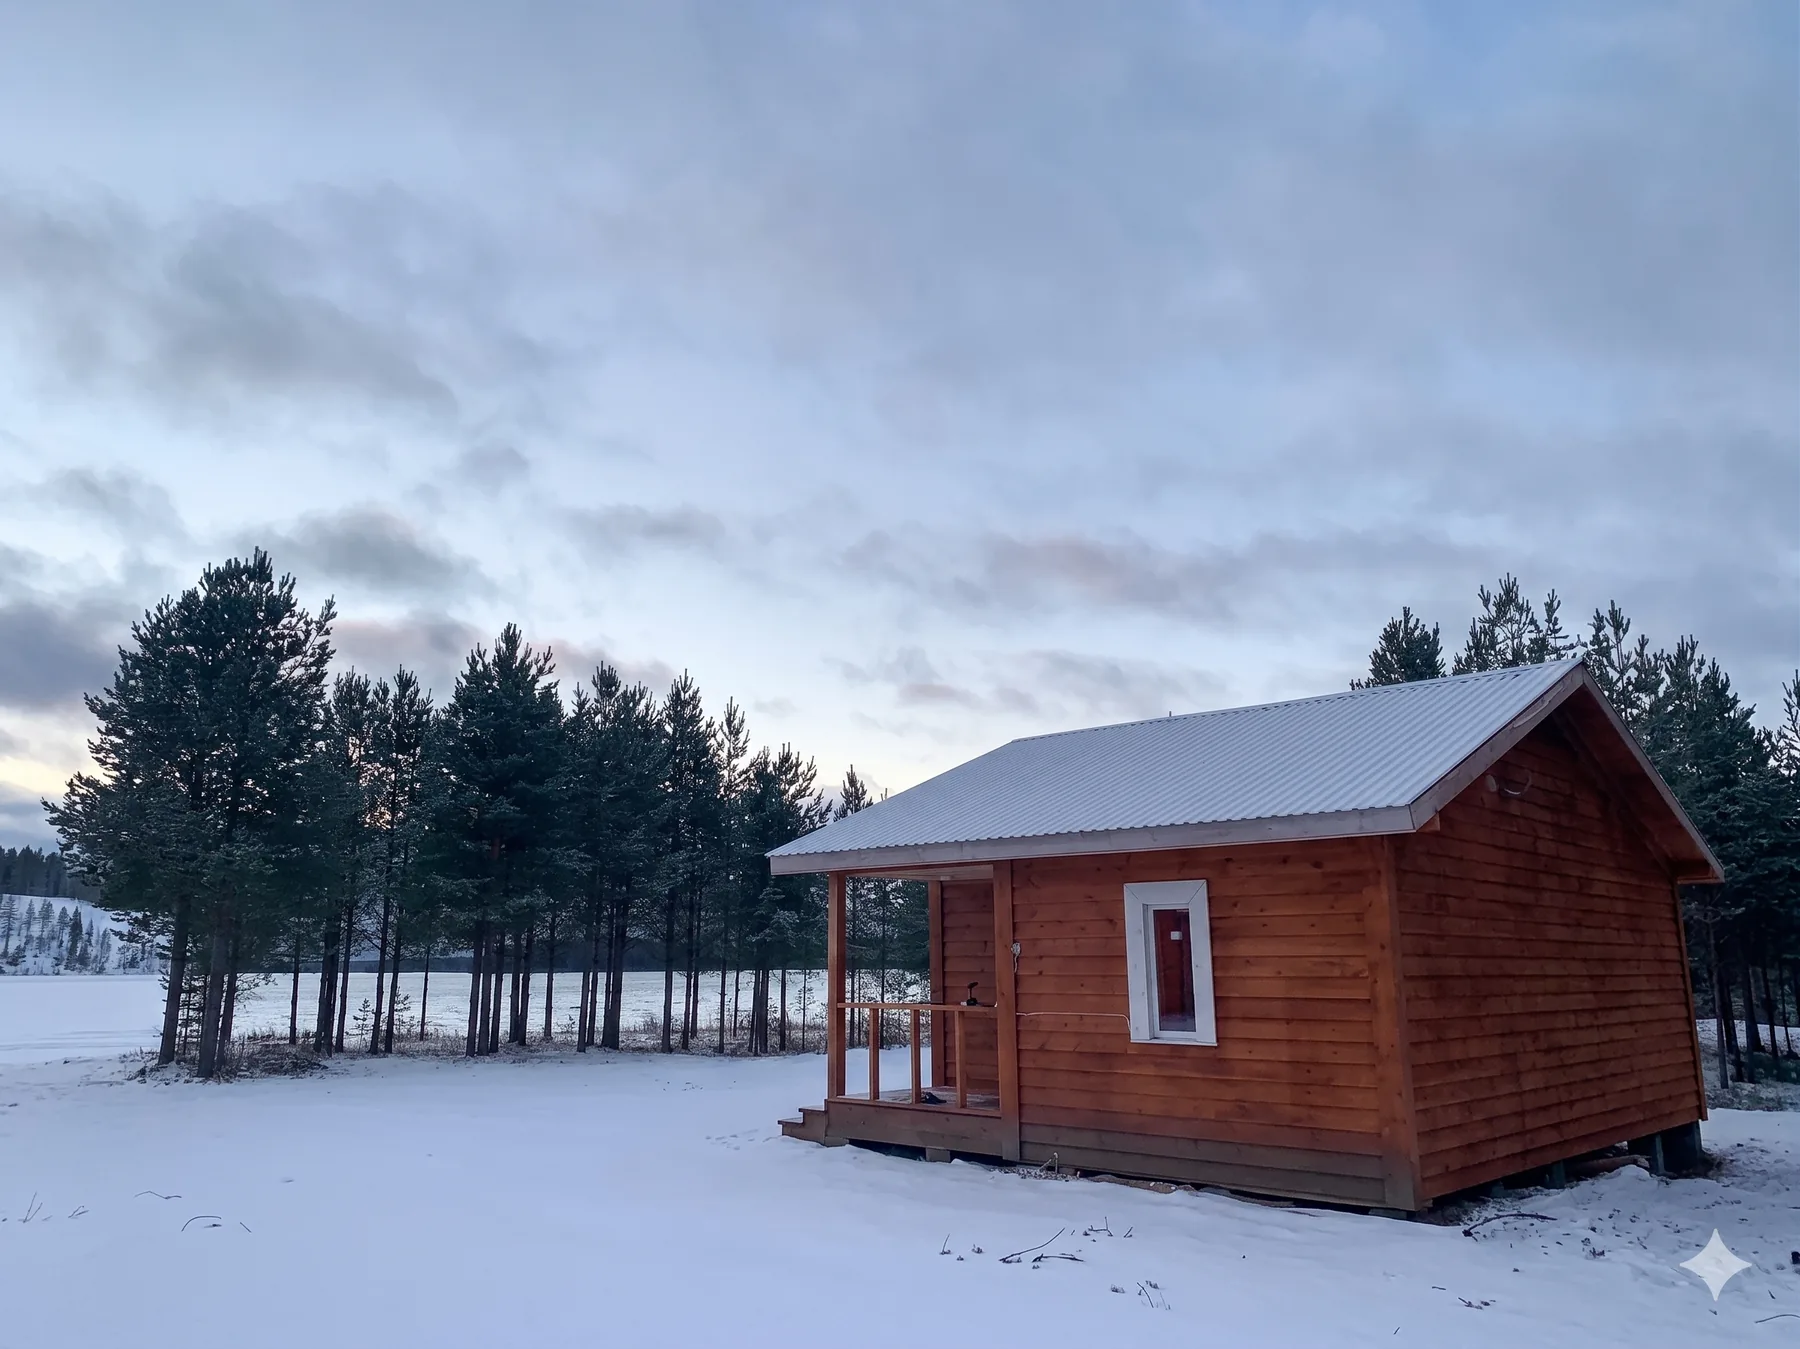
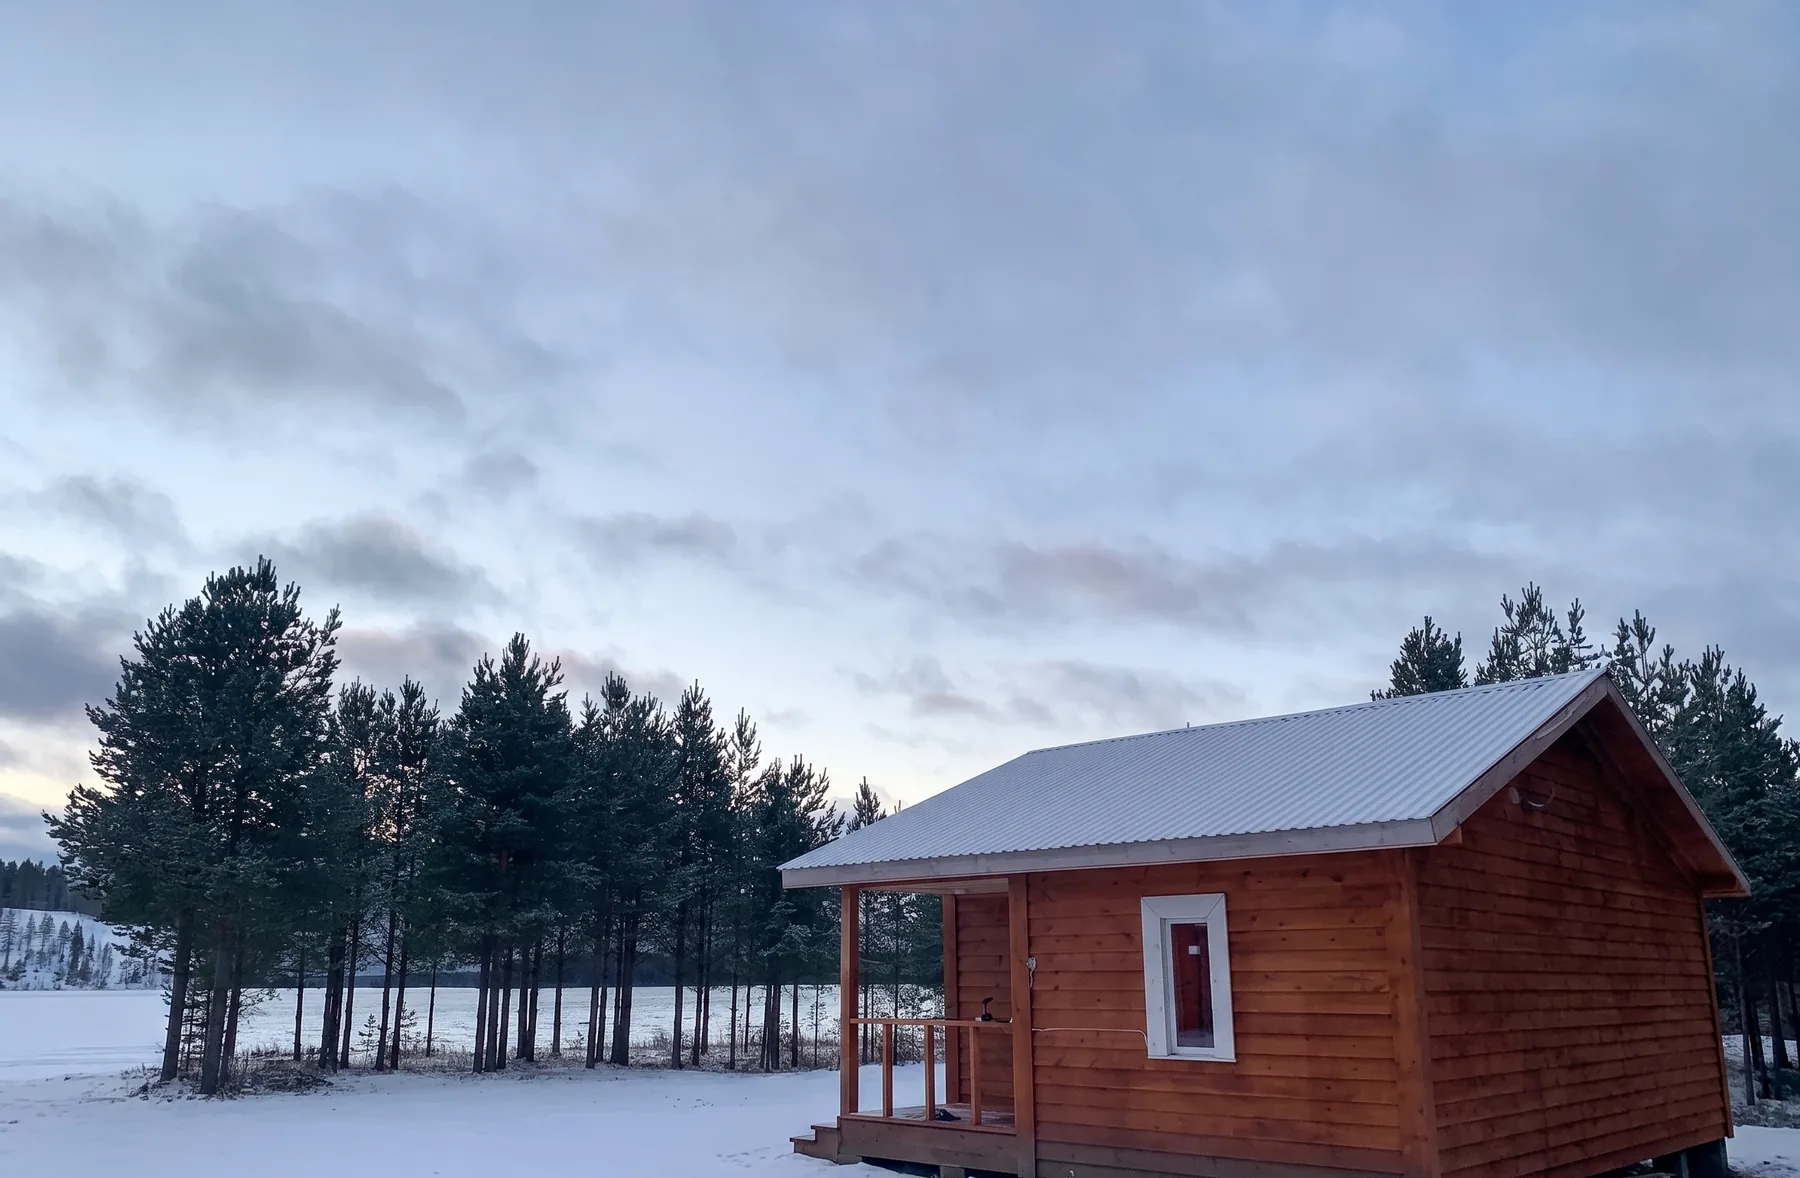
Адаптивный цвет статус-бара под секции + обрезка фото домика (убран водяной знак)

diff --git a/src/App.jsx b/src/App.jsx
@@ -15,9 +15,51 @@ export default function App() {
   const [showTop, setShowTop] = useState(false)
 
   useEffect(() => {
-    const onScroll = () => setShowTop(window.scrollY > window.innerHeight)
+    const meta = document.querySelector('meta[name="theme-color"]')
+    // Цвет фона каждой секции — под него красим статус-бар (верхнюю полосу).
+    const sections = [
+      ['top', '#243a2f'],       // hero — тёмно-зелёный
+      ['about', '#f4efe6'],     // cream
+      ['rooms', '#1f2421'],     // forest-900
+      ['activities', '#f4efe6'],
+      ['fishing', '#243a2f'],   // тёмный параллакс
+      ['reviews', '#f4efe6'],
+      ['location', '#f3f6f3'],  // forest-50
+      ['booking', '#1f2421'],   // forest-900 (и футер тоже тёмный)
+    ]
+    let current = ''
+    const apply = () => {
+      let color = '#243a2f'
+      for (const [id, c] of sections) {
+        const el = document.getElementById(id)
+        if (!el) continue
+        const r = el.getBoundingClientRect()
+        if (r.top <= 2 && r.bottom > 2) {
+          color = c
+          break
+        }
+      }
+      // у самого низа страницы (футер) — оставляем тёмный
+      if (window.scrollY + window.innerHeight >= document.body.scrollHeight - 4) {
+        color = '#1f2421'
+      }
+      if (color !== current) {
+        current = color
+        if (meta) meta.setAttribute('content', color)
+        document.body.style.backgroundColor = color
+      }
+    }
+    const onScroll = () => {
+      setShowTop(window.scrollY > window.innerHeight)
+      requestAnimationFrame(apply)
+    }
+    apply()
     window.addEventListener('scroll', onScroll, { passive: true })
-    return () => window.removeEventListener('scroll', onScroll)
+    window.addEventListener('resize', apply, { passive: true })
+    return () => {
+      window.removeEventListener('scroll', onScroll)
+      window.removeEventListener('resize', apply)
+    }
   }, [])
 
   return (

diff --git a/index.html b/index.html
@@ -3,7 +3,7 @@
   <head>
     <meta charset="UTF-8" />
     <meta name="viewport" content="width=device-width, initial-scale=1.0" />
-    <meta name="theme-color" content="#2d4a3a" />
+    <meta name="theme-color" content="#243a2f" />
 
     <!-- Primary SEO -->
     <title>Карельские зори — гостевой дом на берегу озера в Карелии</title>